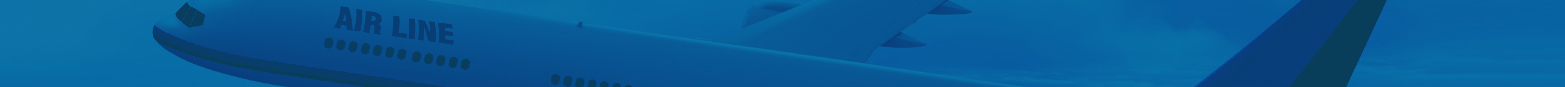
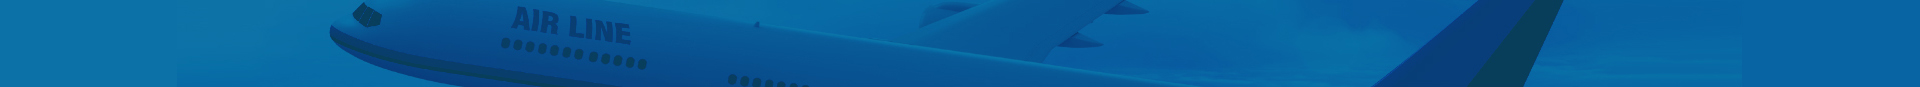
up

diff --git a/05travel/index.html b/05travel/index.html
@@ -28,6 +28,26 @@
 				<div class="util">
 					<img src="images/04비행기01.jpg" alt="" class="airPlane">
 					<h1>TRAVEL</h1>
+					<div class="searchWrap">
+						<form action="#" method="get">
+							<label for="searchTxt" class="searchTitle">searchtitle</label>
+							<input type="text" id="searchTxt" name="search" placeholder="검색어를 입력하세요." class="searchInp">
+							<button type="submit" class="searchBtn">search</button>
+						</form>
+					</div>
+					<div class="numWrap">
+						<ul class="clearfix">
+							<li class="num">
+								<h2>+82 02 12345678</h2>
+
+							</li>
+							<li class="snslogo">
+								<img src="images/facebook-icon.png" alt="">
+								<img src="images/google logo.png" alt="">
+								<img src="images/youtube.png" alt="">
+							</li>
+						</ul>
+					</div>
 				</div>
 			</div>
 			<div class="navWrap">
@@ -54,14 +74,14 @@
 									<img src="images/03여행01.jpg" alt="">
 									<div class="txtOne clearfix">
 										<h3>프랑스</h3>
-										<p>￦ 1,900,000~</p>
+										<p>￦1,900,000~</p>
 									</div>
 								</li>
 								<li class="l_right">
 									<img src="images/03여행02.jpg" alt="">
 									<div class="txtTwo clearfix">
 										<h3>일본</h3>
-										<p>￦ 890,000~</p>
+										<p>￦890,000~</p>
 									</div>
 								</li>
 							</ul>
@@ -193,7 +213,7 @@
 				<li><a href="#">광고 및 제휴문의</a></li>
 			</ul>
 			<address>
-				123-456 서울특별시 구로구 구로동 (주)하이미디어 사업자등록번호:123-45-678910 대표이사:홍길동 대표번호:02-1324-5678<br>
+				123-456 서울특별시 구로구 구로동 (주)하이미디어 사업자등록번호 : 123-45-678910 대표이사 : 홍길동 대표번호 : 02-1324-5678<br>
 				COPYRIGHTⓒ2014 HIMEDIA TOUR. ALL RIGHTS RESERVED.
 			</address>
 			

diff --git a/05travel/css/style.css b/05travel/css/style.css
@@ -4,10 +4,43 @@
 
 #header{border-bottom: 5px solid #0e73a7;}
 	.headerWrap{width: 980px;margin: 0 auto;}
-		.utilWrap{background: #0e73a7;height: 90px;}
-		.utilWrap>.util{}
-		.utilWrap>.util>h1{color:white;position: absolute;}
-		.utilWrap>.util>.airPlane{position: absolute;}
+		.utilWrap{background: #0e73a7;height: 87px;}
+		.utilWrap>.util{position: relative;}
+		.utilWrap>.util>h1{color:white;position:absolute;line-height: 87px;}
+		.utilWrap>.util>.airPlane{position: absolute;left: -470px;}
+
+		.utilWrap .searchWrap{
+			position: absolute;left: 280px;top: 30px;
+		}
+		.utilWrap .searchInp{
+			width: 290px;height: 30px;
+			border: 0 none;
+			border-radius:15px;
+			text-indent: 80px;
+			font-size: 13px;font-weight: bold;
+			background-color: #fff;
+		}
+		.utilWrap .searchBtn{
+			width: 20px;height: 20px;
+			background-image: url(../images/search.jpg);
+			border: 0 none;text-indent:-9999px;
+			position: absolute;right: 15px;top: 5px;
+			cursor: pointer;
+		}
+		.utilWrap .searchTitle{
+			display: block;width: 60px;height: 20px;
+			background-image: url(../images/searchtext.jpg);
+			text-indent:-9999px;
+			position: absolute;top: 6px;left: 10px;
+		}
+		.utilWrap .numWrap{
+			position: absolute;right: 0;line-height: 87px;
+			color:white;
+		}
+		.numWrap .num{float: left;margin-right: 20px;}
+		.numWrap .snslogo{float: right;padding-top: 5px;}
+		.numWrap .snslogo img{width: 24px;cursor:pointer;}
+
 
 		.navWrap{}
 		.navWrap>ul{}
@@ -47,6 +80,9 @@
 				width: 482px;height: 556px;_background: red;
 				position: absolute;z-index: 1;
 			}
+
+
+
 
 			.main_content .l_con>ul{}
 			.main_content .l_con>ul>li{overflow:hidden;cursor:pointer;}
